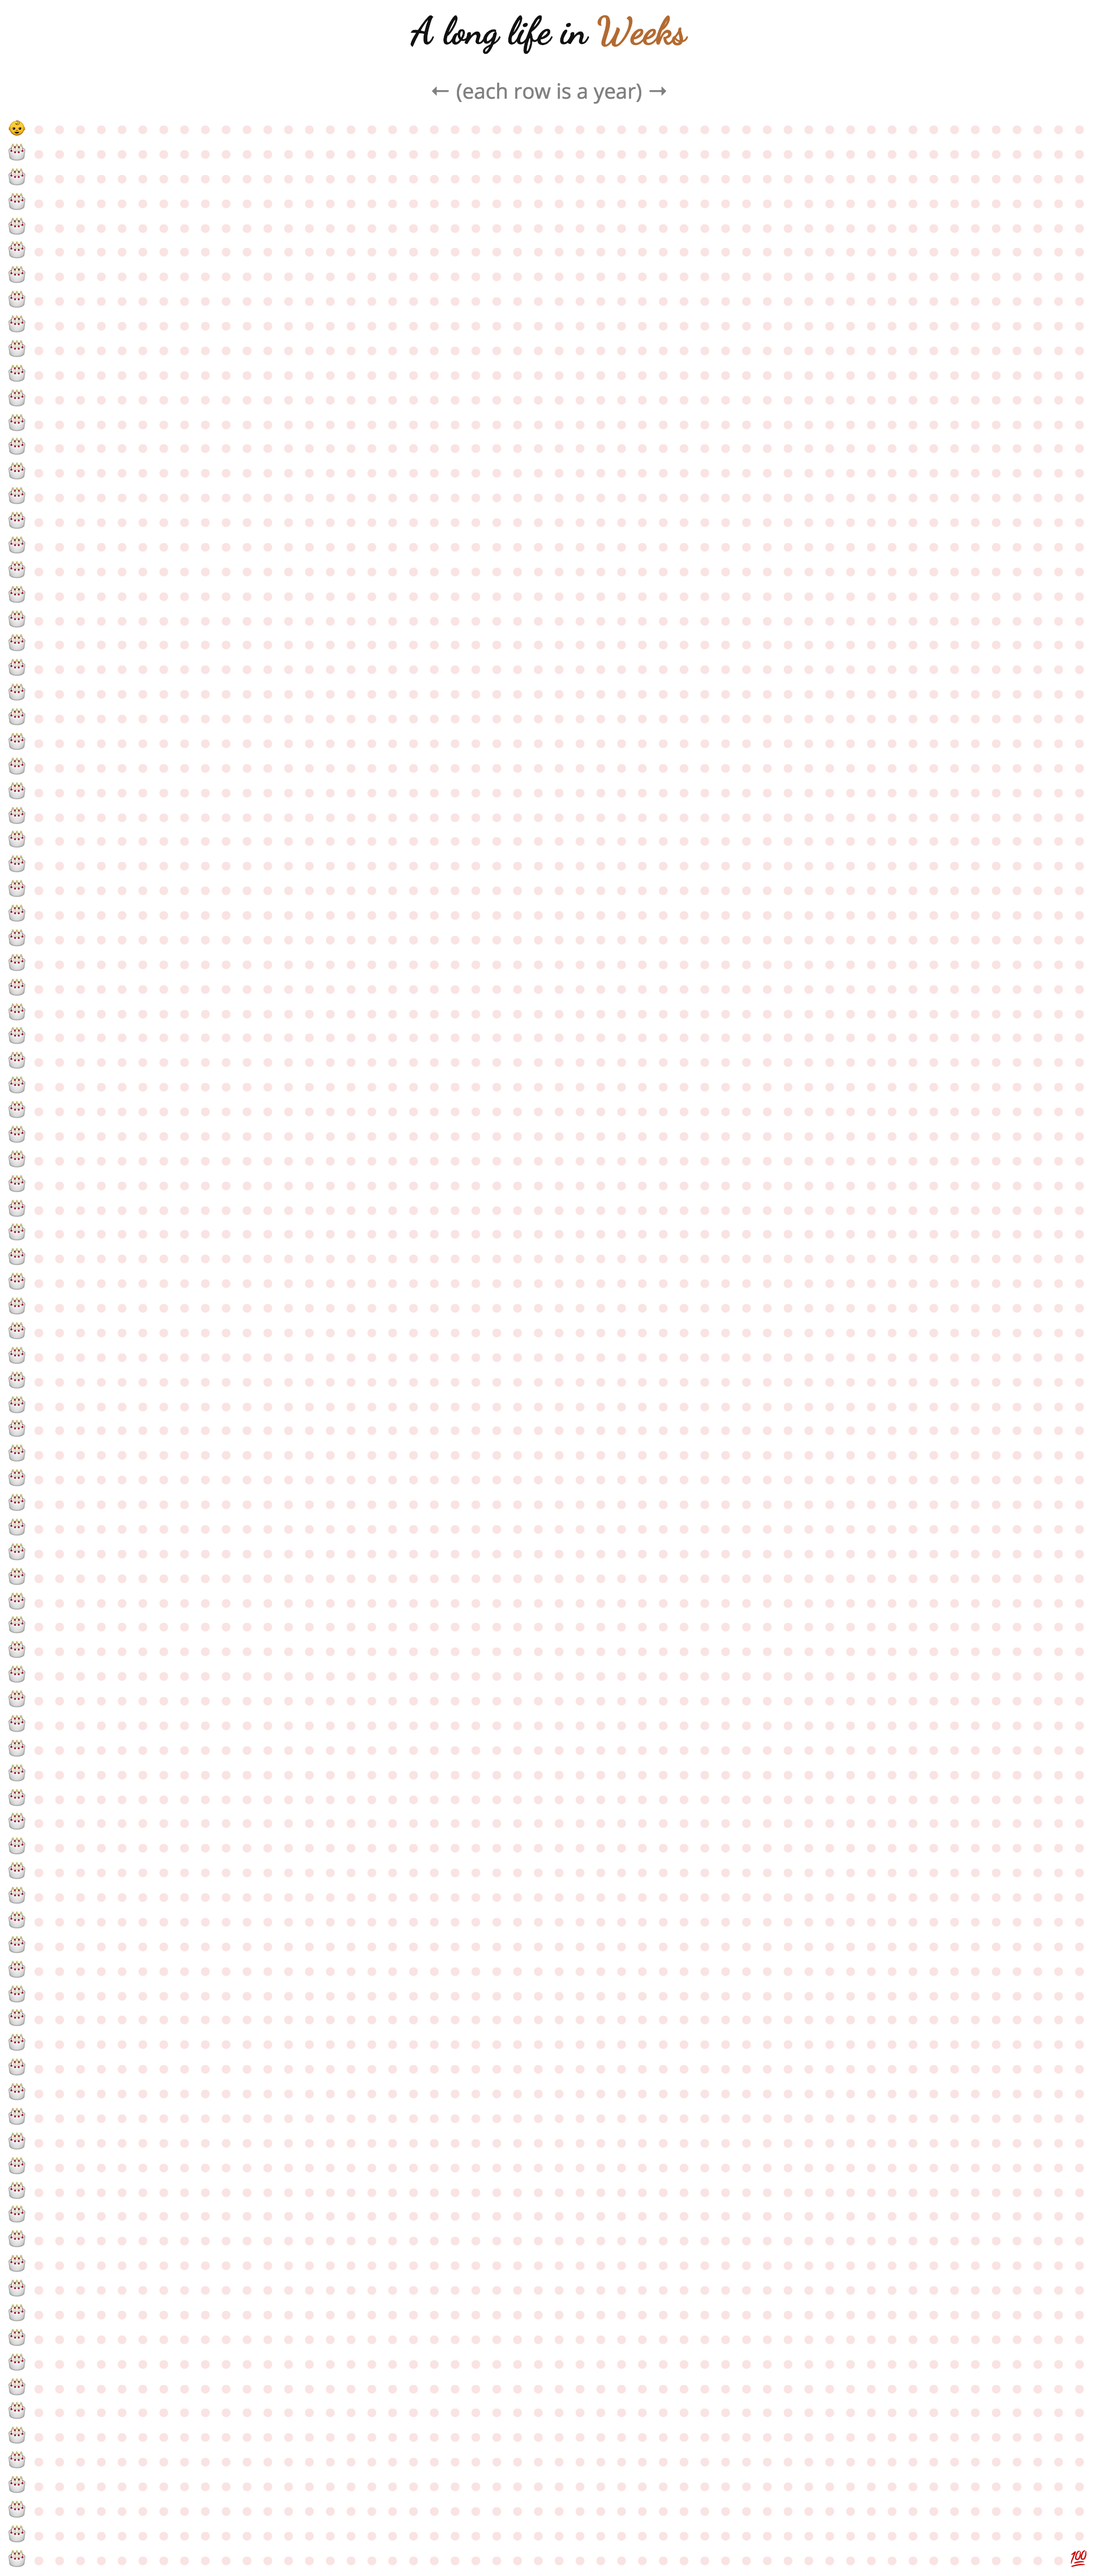
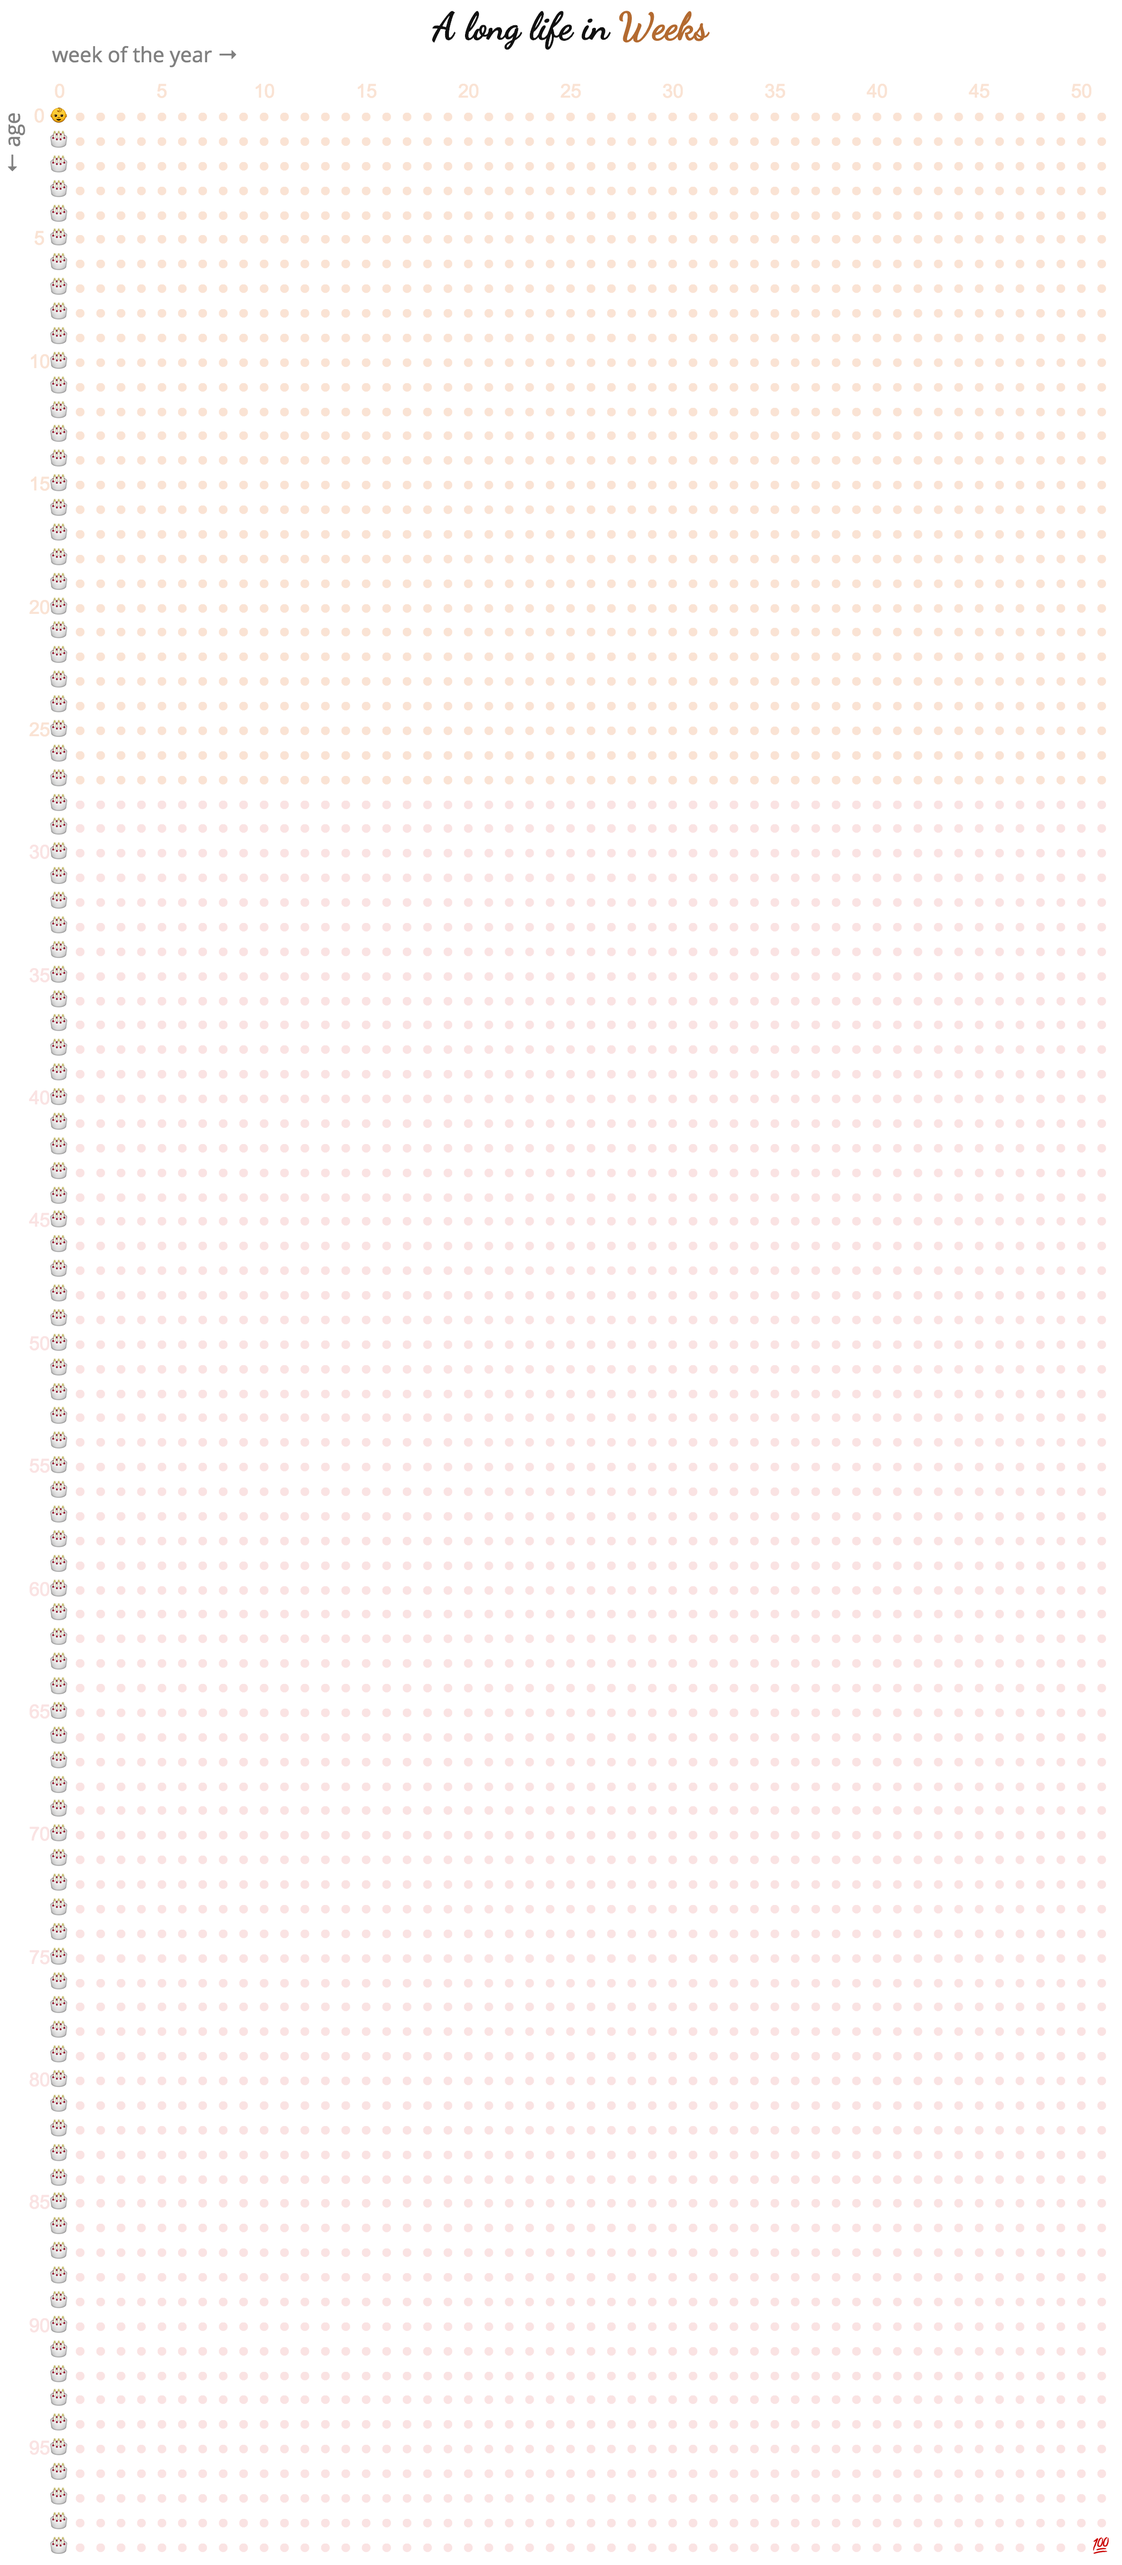
Improve life-in-weeks image

Changed region(s): [[0.0, 0.0, 0.9863, 0.9975]]

diff --git a/src/components/Home.jsx b/src/components/Home.jsx
@@ -38,7 +38,7 @@ export default class Home extends React.Component {
             <h2 id="something-more-tangible" className="brand">Something more tangible</h2>
             <p>How about months?</p>
             <p className="life-calendar-image">
-              <img src="https://draftin.com:443/images/32522?token=EwJlv84mCLtd99b7VexV6fl8pBgTFAc3KaJq_bj6YneoOd87Y4YzvdzCChWzT1Vt0EA_xPY2fbaxyVVAkIyhVZA" alt="a 36x33 grid, each row of 36 representing three years"/>
+              <img src="/images/life-in-months.png" alt="a 36x33 grid, each row of 36 representing three years"/>
             </p>
             <p>It's wild to think that I probably won't have that many months in my life. Months definitely feel like more of a human timescale than years.</p>
           </div>
@@ -57,7 +57,7 @@ export default class Home extends React.Component {
             <h2 id="how-about-weeks?" className="brand">How about weeks?</h2>
             <p><a href="http://waitbutwhy.com/2014/05/life-weeks.html">Wait But Why</a> breaks it down one step further. Here's a whole 100-year life in weeks:</p>
             <p>
-              <img src="https://draftin.com:443/images/32526?token=t0EYPy0xRmvK8KBSkW6WeF7tMjjqe_UXnAXTFGpKWM-jHjIx0kznMZLqvnPCOy8Wab8-3pBEZh4N0d-Zwn1cZcs" alt="a 52x100 grid, each row representing one year"/>
+              <img src="/images/life-in-weeks.png" alt="a 52x100 grid, each row representing one year"/>
             </p>
             <p>That is a lot of dots.</p>
             <p>But also not as many as I'd like! I'd prefer to pretend that my weeks will never end. That they're an unlimited resource.</p>

diff --git a/src/components/LifeLoading.jsx b/src/components/LifeLoading.jsx
@@ -4,15 +4,7 @@ import ReactMixin from 'react-mixin';
 export default class LifeLoading extends React.Component {
   constructor(props) {
     super(props);
-    this.state = { dots: 1750 }; // ~1/3 of a life
-  }
-
-  componentDidMount() {
-    this.dotIncrementer = setInterval(() => this.setState({dots: this.state.dots + 1}), 100)
-  }
-
-  componentWillUnmount() {
-    clearInterval(this.dotIncrementer)
+    this.state = { dots: 5252 }
   }
 
   render() {
